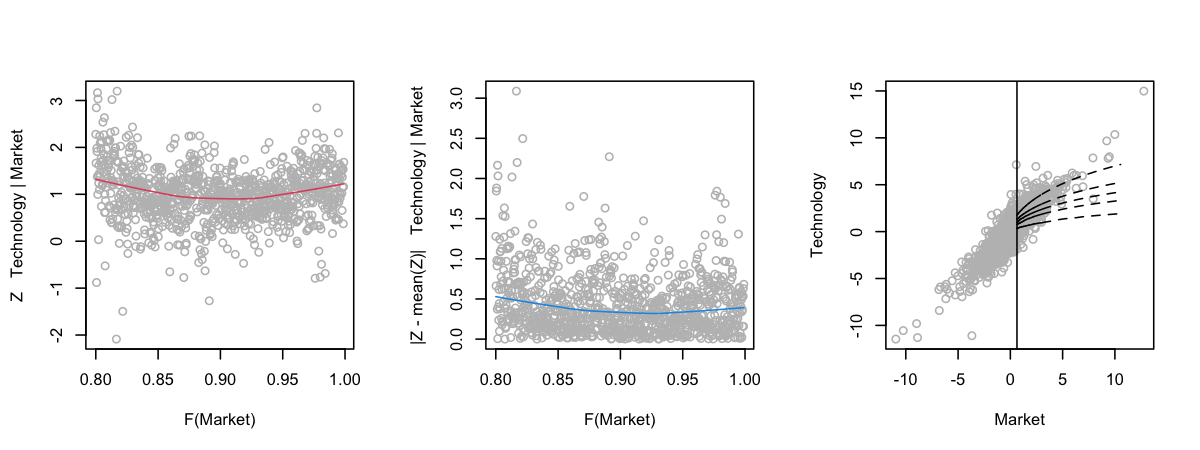
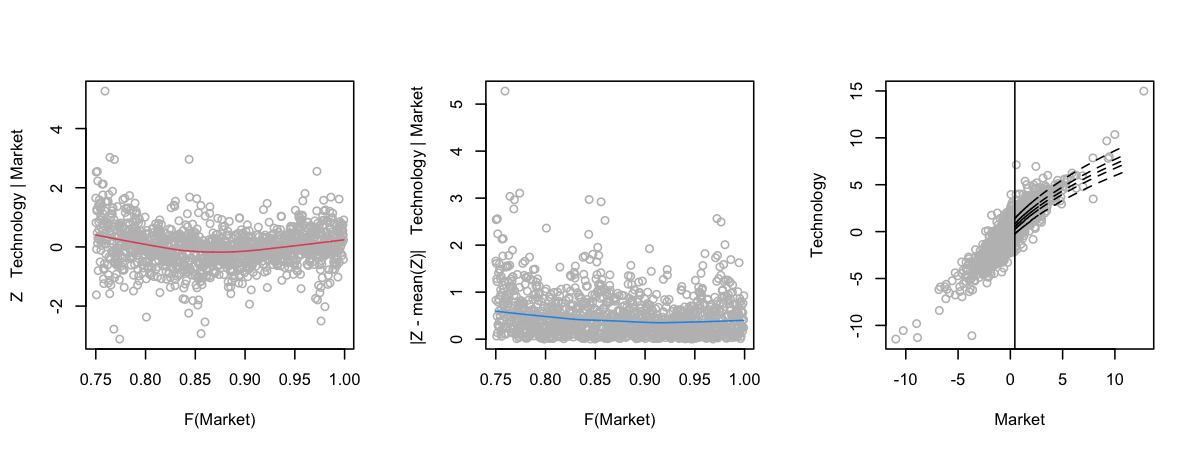
texmex update

diff --git a/R_Notebooks/texmex.md b/R_Notebooks/texmex.md
@@ -44,18 +44,18 @@ Done in EDA section.
 <p align="center">
 
     ## Conditioning on Market variable.
-    ## Thresholding quantiles for transformed data: dqu = 0.8
+    ## Thresholding quantiles for transformed data: dqu = 0.75
     ## Using laplace margins for dependence estimation.
     ## Constrained estimation of dependence parameters using v = 10 .
-    ## Log-likelihood = -1457 -1189 -982 -1229 -992 -1200 -1284 -1448 -1624 -1540 -1464 
+    ## Log-likelihood = -1793 -1369 -1194 -1561 -1304 -1476 -1583 -1766 -2008 -1860 -1870 
     ## 
     ## Dependence structure parameter estimates:
     ##   Communication.Services Technology Industrial Materials Consumer.Discretionary
-    ## a                   0.85       0.12       0.50      0.68                   0.55
-    ## b                   0.18       0.57       0.48      0.32                   0.48
+    ## a                   0.84      0.895        0.7      0.43                   0.41
+    ## b                   0.13      0.068        0.3      0.45                   0.45
     ##   Financial Health.Care Consumer.Staples Utilities Real.Estate Energy
-    ## a      0.60        0.75             0.48      0.85        0.74  0.912
-    ## b      0.35        0.25             0.38      0.19        0.25  0.091
+    ## a      0.63        0.65             0.51      0.82        0.83   0.32
+    ## b      0.33        0.32             0.30      0.16        0.13   0.38
 
 </p>
 
@@ -71,7 +71,7 @@ Done in EDA section.
 
 <p align="center">
 
-    ## mexRangeFit run time: 477.18 sec elapsed
+    ## mexRangeFit run time: 507.779 sec elapsed
 
 </p>
 
